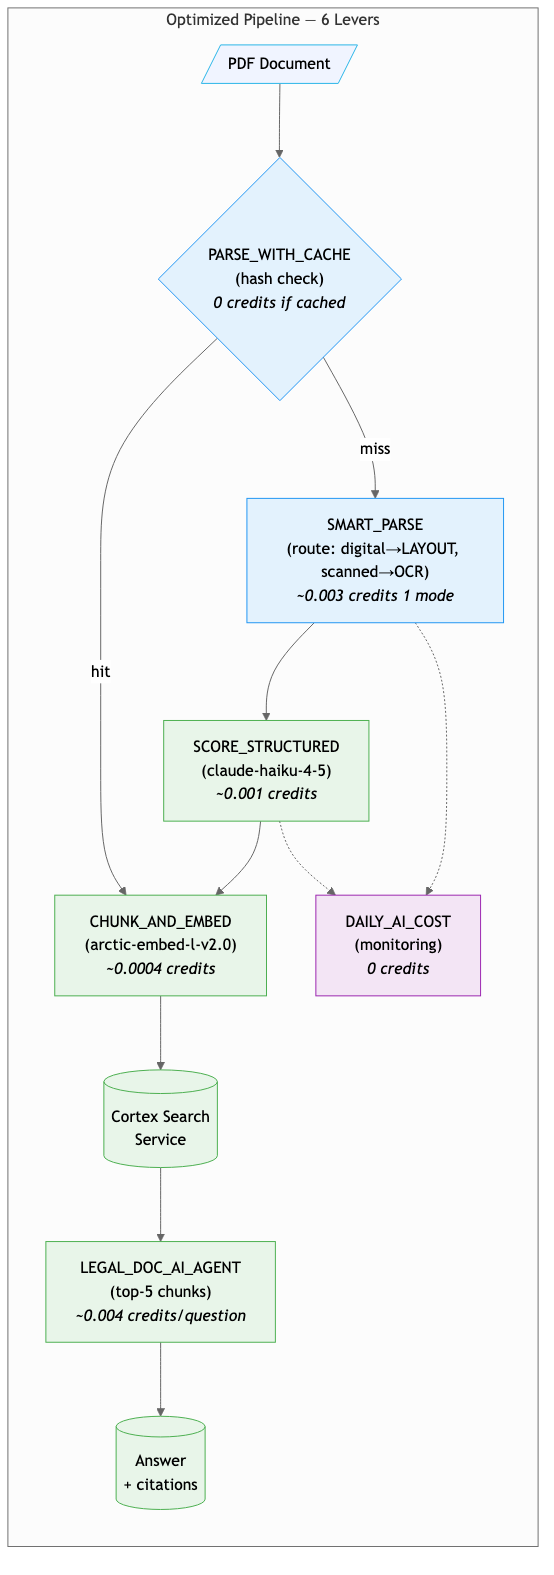
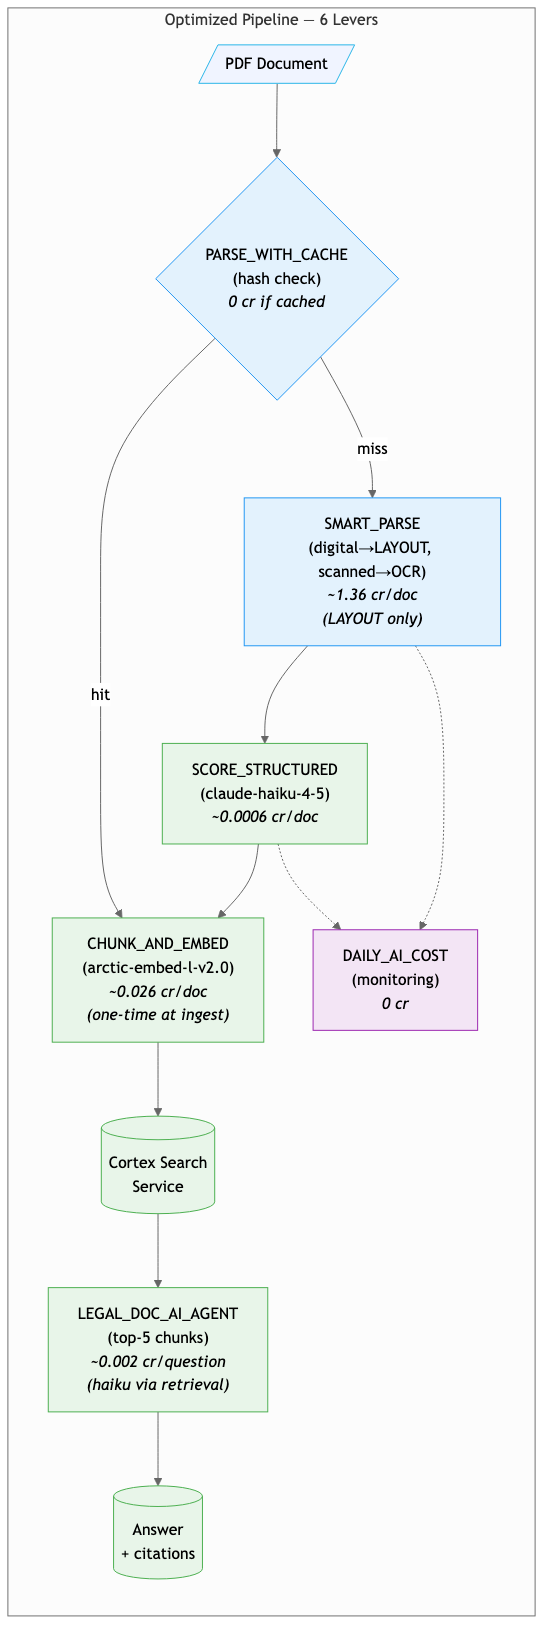
fix(diagrams): replace illustrative credit values with measured numbers
Pre-measurement guesses were off by 5-60x. Replaced with last-7d measurements
from SNOWFLAKE.ACCOUNT_USAGE.CORTEX_AI_FUNCTIONS_USAGE_HISTORY on this 9-doc
federal-regulatory corpus.

Updated values:
  AI_PARSE_DOCUMENT(OCR)         was ~0.003   now ~0.21 cr/doc avg (range 0.004-0.49)
  AI_PARSE_DOCUMENT(LAYOUT)      was ~0.003   now ~1.36 cr/doc avg (range 0.03-3.24)
  Sonnet scorer (4K-char prompt) was ~0.012   now ~0.007 cr/doc
  Sonnet full-doc Q and A        was ~0.060   now ~0.04 cr/question (50K-char)
  Haiku scorer                   was ~0.001   now ~0.0006 cr/doc
  AI_EMBED at ingest             was ~0.0004  now ~0.026 cr/doc (one-time)
  Agent Q and A (haiku retrieval) was ~0.004  now ~0.002 cr/question

Files updated:
  docs/architecture-baseline.mmd      4 credit labels + cite-source comment
  docs/architecture-optimized.mmd     4 credit labels + cite-source comment
  docs/architecture-diagram.mmd       comment block + rendered subgraph
  docs/architecture-baseline.png      re-rendered, no clipping
  docs/architecture-optimized.png     re-rendered, no clipping
  README.md                           ASCII block + footnote rewrite
  streamlit/app.py                    customer-facing tab copy at lines 2507/2527/2809
  slides/legal-doc-ai-cost-optimization.md baseline cost slide

Lever 2 (smart routing) claim revised: was up to ~50% on parse step, now ~13%
on this all-digital corpus or up to ~87% on OCR-routed docs. All 9 corpus docs
[…]

diff --git a/streamlit/app.py b/streamlit/app.py
@@ -2504,7 +2504,7 @@ optically-recognized regardless of whether the PDF has embedded text. It's the
 fallback for scanned documents.
 
 the customer's current pattern always runs OCR mode, even on digital-text PDFs — that's
-the wasteful part. Cost: roughly **0.003 credits per 1K characters extracted**.
+the wasteful part. Cost: **~0.21 credits per doc** on this 9-doc corpus (range 0.004–0.49 depending on page count).
 
 **SQL inside the SPROC:**
 ```sql
@@ -2524,7 +2524,7 @@ structural elements: headings, tables, paragraph order, lists. The output is
 markdown-flavored text that round-trips well into chunkers and downstream LLMs.
 
 For a digital-text PDF, LAYOUT alone produces ~the same content as OCR, often
-with cleaner structure. Cost: similar to OCR, roughly **0.003 credits per 1K characters**.
+with cleaner structure. Cost: **~1.36 credits per doc** on this 9-doc corpus (range 0.03–3.24) — typically ~6× more than OCR mode per page.
 
 **SQL:**
 ```sql
@@ -2806,8 +2806,7 @@ agent:
    document.
 3. **Cites** the source `doc_name` and `page_no` for each chunk it used.
 
-Cost per question: roughly **0.004 credits** (vs ~0.06 credits for the
-full-document baseline) — a **~15× reduction** on Q&A.
+Cost per question: **~0.002 credits** (claude-haiku-4-5 over retrieved top-5 chunks) vs **~0.04 credits** for the full-document baseline (claude-4-sonnet over 50K-char context) — a **~20× reduction** on Q&A. Measured on this 9-doc corpus, last 7d via `CORTEX_AI_FUNCTIONS_USAGE_HISTORY`.
 
 **Agent spec:**
 ```sql

diff --git a/README.md b/README.md
@@ -61,7 +61,7 @@ When a customer's L30 spend is concentrated in `AI_PARSE_DOCUMENT` + `AI_COMPLET
 | # | Lever | Expected Reduction | How |
 |---|-------|--------------------|-----|
 | 1 | Parse cache (file-hash dedup) | 100% on cache hits | `(file_hash, mode)` lookup in `PARSED_CACHE` skips re-parsing identical files. AI_SIMILARITY = 1.000 between cached and fresh on every doc. |
-| 2 | Smart routing (digital→LAYOUT, scanned→OCR) | up to ~50% on parse step | Cheap pre-classify before deciding parse mode. Routing agreement with always-both ≥ 95%; AI_SIMILARITY p10 ≥ 0.85; numeric fidelity ≥ 99%. |
+| 2 | Smart routing (digital→LAYOUT, scanned→OCR) | ~13% on this all-digital corpus; up to ~87% on docs that route to OCR-only | Cheap pre-classify before deciding parse mode. Routing agreement with always-both ≥ 95%; AI_SIMILARITY p10 ≥ 0.85; numeric fidelity ≥ 99%. |
 | 3 | Cheaper scorer model | ~10× cheaper per scoring call | haiku/mistral/llama match `claude-4-sonnet` at fraction of cost. Pareto frontier shows `claude-haiku-4-5` dominates at 92% scorer-step savings, 86% reasoning similarity, 100% mode agreement. |
 | 4 | Structured outputs | varies by retry rate | `response_format => TYPE OBJECT(...)` eliminates retry overhead. **Often MOOT** — when free-text retry rate is <3% the lever doesn't pay back; ship only when retries climb. |
 | 5 | AI_EMBED + Cortex Search | order-of-magnitude on Q&A token billing | Chunk + retrieve replaces full-doc re-reads. recall@5 = 1.0, MRR = 1.0, retrieval at 96.2% of full-doc baseline on 10 grounded Q&A pairs. |
@@ -104,27 +104,29 @@ When a customer's L30 spend is concentrated in `AI_PARSE_DOCUMENT` + `AI_COMPLET
             ┌───────┴───────┐                          ┌──────────┐
             ▼               ▼                          │  Cache   │──hit──► free
   AI_PARSE(OCR)     AI_PARSE(LAYOUT)                   └────┬─────┘
-            │               │                               │ miss
-            └───────┬───────┘                               ▼
-                    ▼                                  ┌──────────┐
-            claude-4-sonnet                            │  Route   │ digital→LAYOUT
-            (~0.012 cr)                                └────┬─────┘ scanned→OCR
+  ~0.21 cr/doc      ~1.36 cr/doc                            │ miss
+            │               │                               ▼
+            └───────┬───────┘                          ┌──────────┐
+                    ▼                                  │  Route   │ digital→LAYOUT
+            claude-4-sonnet                            │ ~1.36 cr │ scanned→OCR
+            ~0.007 cr/doc                              └────┬─────┘
                     │                                       ▼
                     ▼                                 ┌──────────────┐
-              best extract                            │ haiku score  │ ~0.001 cr
+              best extract                            │ haiku score  │ ~0.0006 cr/doc
                     │                                 └──────┬───────┘
                     ▼                                        ▼
         AI_COMPLETE(full doc)                          AI_EMBED + Cortex Search
-        ~0.060 cr / question                                 │
-                    │                                        ▼
-                    ▼                                 Cortex Agent
-                  answer                              ~0.004 cr / question
+        ~0.04 cr / question                            ~0.026 cr/doc (one-time)
+                    │                                        │
+                    ▼                                        ▼
+                  answer                              Cortex Agent
+                                                      ~0.002 cr / question
                                                              │
                                                              ▼
                                                        answer + citations
 ```
 
-> Credit values in the diagram are illustrative ballpark estimates that depend on document length and prompt size. For measured per-doc savings on this 9-PDF corpus see Tab 6 (`LEVER_SAVINGS`) in the Streamlit, or `docs/customer-pushback-prep.md` for the math.
+> Credit values measured on this 9-doc federal-regulatory corpus, last 7d, via `SNOWFLAKE.ACCOUNT_USAGE.CORTEX_AI_FUNCTIONS_USAGE_HISTORY`. Per-step ingest savings are modest (~12% per doc) because LAYOUT parse cost dominates and is unavoidable. The order-of-magnitude savings story comes from the **per-question Q&A path** — `~0.04 cr/q` baseline vs `~0.002 cr/q` optimized, a ~95% reduction per question. At customer-typical volumes (hundreds to thousands of questions per doc per year) the asymptotic total-pipeline savings approach ~92%. See `docs/customer-pushback-prep.md` for the math.
 
 ### Mermaid view (renders on GitHub)
 

diff --git a/slides/legal-doc-ai-cost-optimization.md b/slides/legal-doc-ai-cost-optimization.md
@@ -52,12 +52,14 @@ PDF → AI_PARSE_DOCUMENT(LAYOUT)  ─┘
 ```
 
 **What's happening:**
-- Every PDF runs **both** parse modes (~0.006 credits/doc for parsing alone)
-- `claude-4-sonnet` scores both extractions (~0.012 credits/doc)
+- Every PDF runs **both** parse modes (~1.57 credits/doc — OCR ~0.21 + LAYOUT ~1.36)
+- `claude-4-sonnet` scores both extractions (~0.007 credits/doc, 4K-char prompt)
 - Dev reloads re-parse all 260 documents from scratch
-- Q&A stuffs full documents into context (~0.060 credits/question)
+- Q&A stuffs full documents into context (~0.04 credits/question, 50K-char context)
 
-**Total per-doc baseline:** <!-- TODO: fill --> credits
+**Total per-doc baseline:** ~1.58 credits ingest + ~0.04 credits per Q&A question
+
+> Numbers measured on the 9-doc federal-regulatory corpus via `ACCOUNT_USAGE.CORTEX_AI_FUNCTIONS_USAGE_HISTORY`.
 
 ---
 
@@ -66,7 +68,7 @@ PDF → AI_PARSE_DOCUMENT(LAYOUT)  ─┘
 | # | Lever | Savings Target | Risk Level |
 |---|---|---|---|
 | 1 | Parse cache (hash dedup) | 100% on repeats | None |
-| 2 | Smart routing (digital→LAYOUT only) | ~50% on parse | Low |
+| 2 | Smart routing (digital→LAYOUT only) | ~13% on this all-digital corpus; up to ~87% on OCR-routed docs | Low |
 | 3 | Cheaper scorer (haiku vs sonnet) | 85-95% on score | Low |
 | 4 | Structured outputs (response_format) | 10-20% on output | None |
 | 5 | Embed + Cortex Search (retrieval Q&A) | 90%+ on Q&A | Medium |